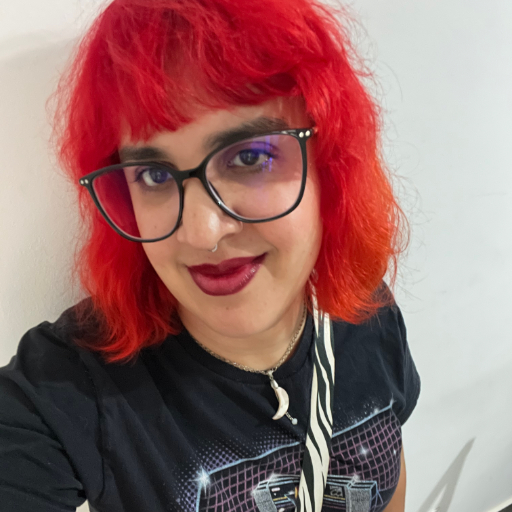
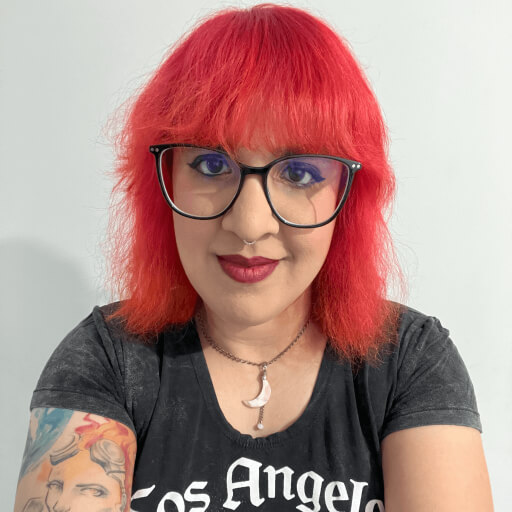
Correção do link do bsky + foto nova

diff --git a/index.html b/index.html
@@ -100,7 +100,7 @@
                 <section id="where">
                     <h2>Wanna get in touch?</h2>
 
-                    <p>Além deste site, você pode me contactar <a href="mailto:hello@eusoujulia.com.br" target="_blank" aria-label="Mande um email e podemos conversar melhor" >enviando um E-mail</a> ou entrando em contato via <a href="http://telegram.me/juliaisaway" target="_blank" aria-label="Minha principal maneira de conversa rápida">Telegram</a>. Nas redes sociais, estou no <a href="https://www.instagram.com/juliaisaway_" target="_blank" aria-label="Posto algumas fotinhas e muitos stories">Instagram</a> e no <a href="https://juliaisaway.bsky.social" target="_blank" aria-label="Local onde posto pensamentos e outras bobagens">Bluesky</a>. Caso queira ver mais, acesse meu <a href="https://www.linkedin.com/in/juliaisaway" target="_blank" aria-label="Rede social corporativa">Linkedin</a>, no <a href="https://dribbble.com/juliaisaway" target="_blank" aria-label="Rede social de snippets de Design">Dribble</a> e no no <a href="https://github.com/juliaisaway" target="_blank" aria-label="Maior repositório de código do mundo">GitHub</a>.</p>
+                    <p>Além deste site, você pode me contactar <a href="mailto:hello@eusoujulia.com.br" target="_blank" aria-label="Mande um email e podemos conversar melhor" >enviando um E-mail</a> ou entrando em contato via <a href="http://telegram.me/juliaisaway" target="_blank" aria-label="Minha principal maneira de conversa rápida">Telegram</a>. Nas redes sociais, estou no <a href="https://www.instagram.com/juliaisaway_" target="_blank" aria-label="Posto algumas fotinhas e muitos stories">Instagram</a> e no <a href="https://bsky.app/profile/eusoujulia.com.br" target="_blank" aria-label="Local onde posto pensamentos e outras bobagens">Bluesky</a>. Caso queira ver mais, acesse meu <a href="https://www.linkedin.com/in/juliaisaway" target="_blank" aria-label="Rede social corporativa">Linkedin</a>, no <a href="https://dribbble.com/juliaisaway" target="_blank" aria-label="Rede social de snippets de Design">Dribble</a> e no no <a href="https://github.com/juliaisaway" target="_blank" aria-label="Maior repositório de código do mundo">GitHub</a>.</p>
                 </section>
             </div>
 
